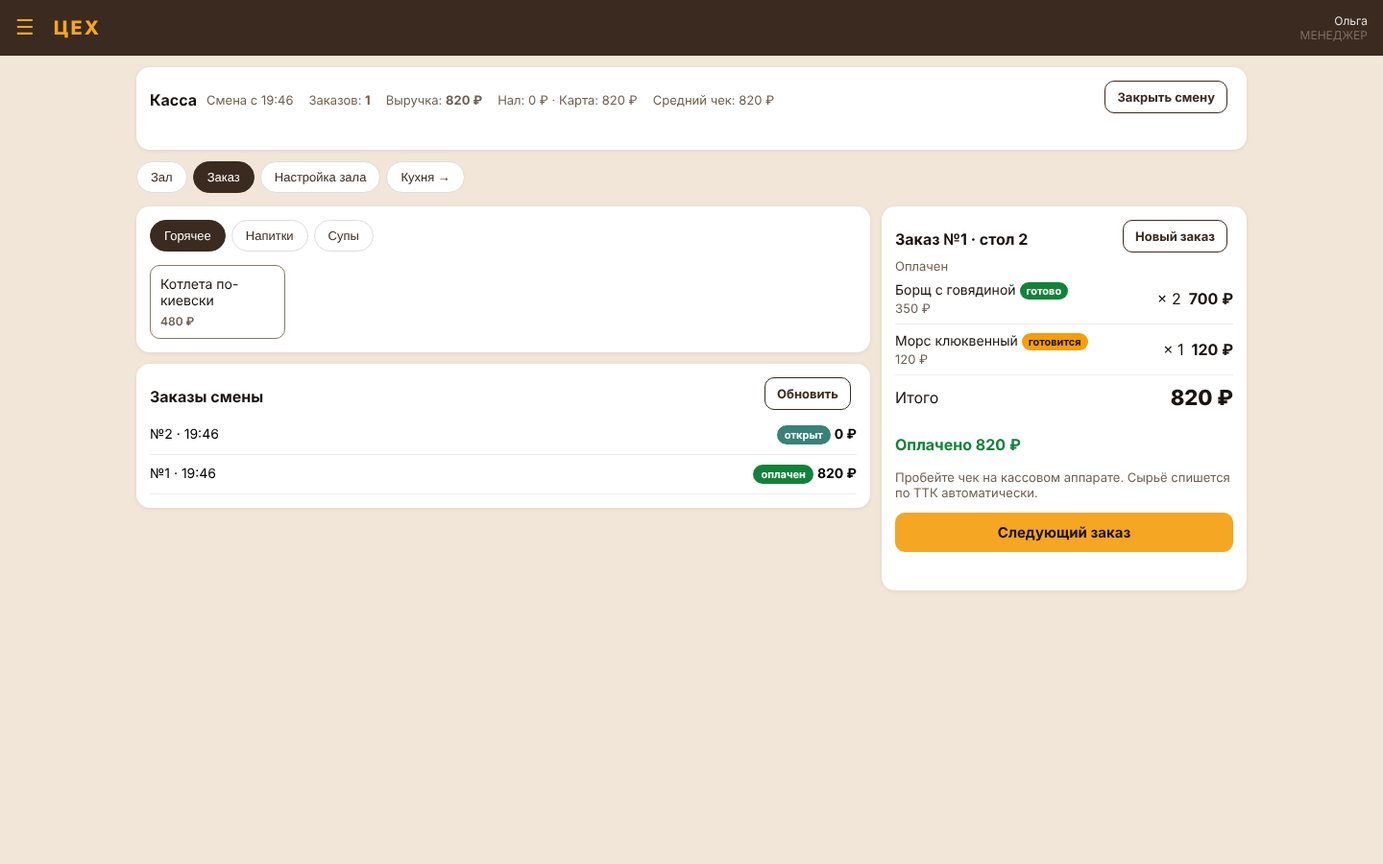
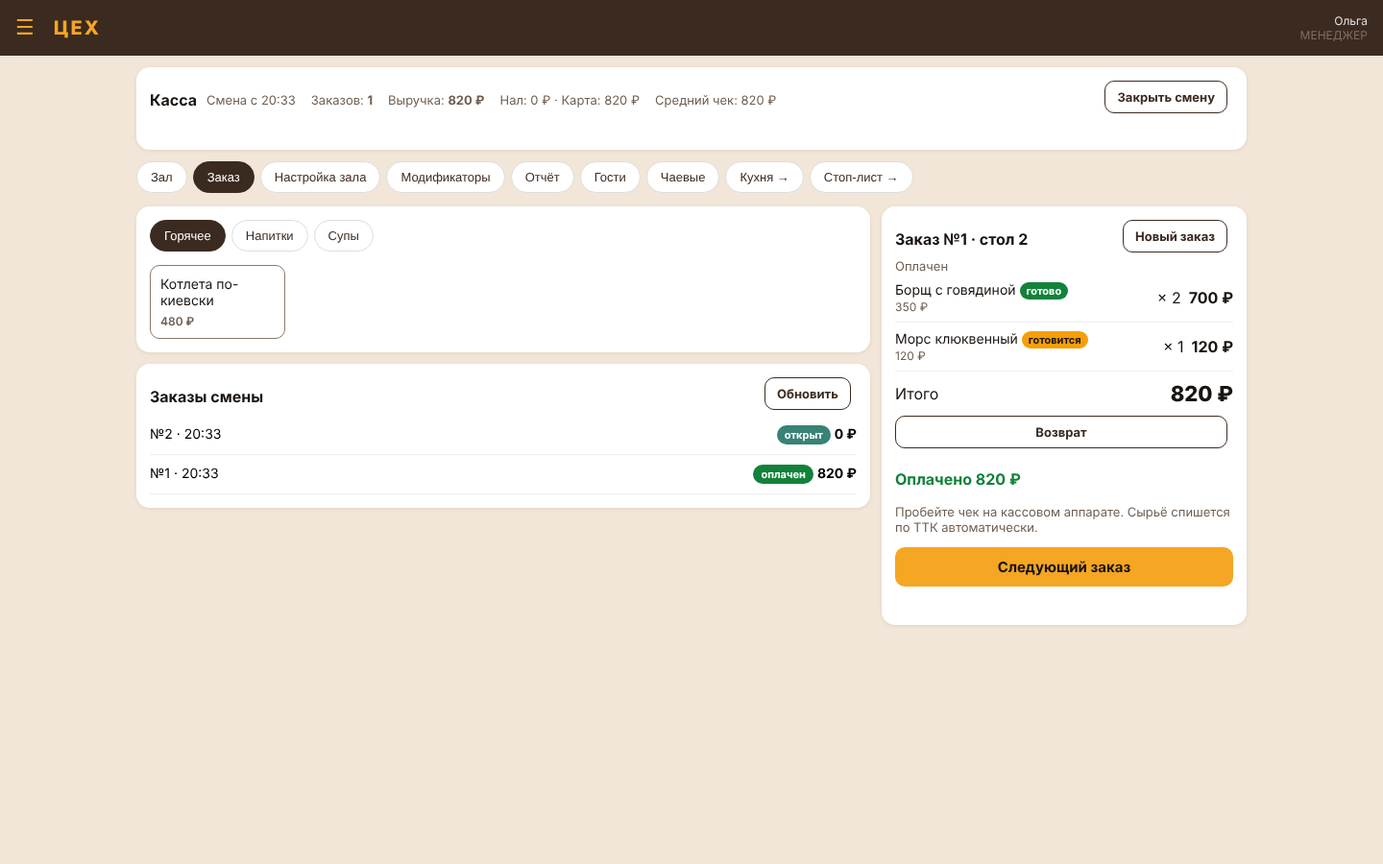
build: M7 чаевые
POS_TIP_LINKS: личная https-ссылка сотрудника на сервис чаевых (свою задаёт сам,
чужие — менеджмент). В карточке заказа — ссылка того, кто ведёт заказ; QR в
заказе на пречеке и после оплаты. «Печать пречека»: позиции, бонусы, к оплате,
пометка «не кассовый чек» и QR для чаевых. Деньги идут через внешний сервис —
ЦЕХ их не принимает и не учитывает. QR рисует quickchart.io, как этикетки
маркировки. Тесты: точные селекторы кнопок «Пречек» / «Печать пречека».

Claude-Session: https://claude.ai/code/session_01TtYS2sTh7C8pE1SCJzegNd

diff --git a/gas/Index.html b/gas/Index.html
@@ -149,6 +149,11 @@
   .pos-seg{display:grid;grid-template-columns:repeat(auto-fit,minmax(72px,1fr));gap:6px;margin:10px 0;}
   .pos-kpi-row{display:flex;flex-wrap:wrap;gap:6px 16px;margin-top:10px;}
   .pos-refund{border:1px solid var(--pos-border-input);border-radius:12px;padding:12px;margin-top:10px;}
+  .pos-tip{display:flex;gap:12px;align-items:center;border:1px dashed var(--pos-border-input);border-radius:12px;padding:10px;margin-top:10px;}
+  .pos-tip img{width:120px;height:120px;flex:none;background:#fff;}
+  .tip-row{display:grid;grid-template-columns:minmax(0,1fr) minmax(0,2fr) auto;gap:8px;align-items:center;padding:8px 0;border-bottom:1px solid #eee;}
+  .tip-row input{margin:0;} .tip-row .btn{width:auto;margin:0;}
+  @media(max-width:600px){ .tip-row{grid-template-columns:1fr;} }
   .pos-guest-chip{display:flex;justify-content:space-between;align-items:center;gap:8px;background:var(--beige);border-radius:10px;padding:8px 10px;margin:8px 0;font-size:14px;}
   .pos-guest-chip .btn{width:auto;margin:0;}
   .pos-consent{display:flex;gap:8px;align-items:flex-start;font-size:13px;color:var(--pos-text-muted);margin:6px 0 10px;}
@@ -1453,6 +1458,7 @@
       <button data-pos-tab="mods" data-module-gate="pos_admin" onclick="posShowTab('mods')">Модификаторы</button>
       <button data-pos-tab="report" data-module-gate="pos_admin" onclick="posShowTab('report')">Отчёт</button>
       <button data-pos-tab="guests" data-module-gate="pos_admin" onclick="posShowTab('guests')">Гости</button>
+      <button data-pos-tab="tips" onclick="posShowTab('tips')">Чаевые</button>
       <button data-module-gate="pos_kitchen" onclick="navTo('kitchen')">Кухня →</button>
       <button data-module-gate="pos_stop" onclick="navTo('stoplist')">Стоп-лист →</button>
     </div>
@@ -1465,6 +1471,16 @@
       <div class="pos-legend pos-muted"><span>свободен</span><span class="lg-busy">занят</span><span class="lg-pre">пречек — ждёт оплаты</span></div>
       <div id="posTables" class="pos-table-grid" aria-live="polite"></div>
       <div id="posFloorErr" class="err" role="alert"></div>
+    </div>
+
+    <!-- M7: ссылки на сервис чаевых. ЦЕХ деньги не принимает — показывает QR на страницу сервиса. -->
+    <div id="posTipsPanel" class="hidden">
+      <div class="card">
+        <h2>Чаевые</h2>
+        <p class="muted">Вставьте личную ссылку сотрудника из сервиса чаевых (например, CloudTips или Нетмонет). Гость увидит QR-код этой ссылки на пречеке и после оплаты. Деньги идут через сервис — касса ЦЕХ их не принимает и не учитывает в выручке.</p>
+        <div id="tipList"></div>
+        <div id="tipErr" class="err" role="alert"></div>
+      </div>
     </div>
 
     <!-- M6: гости и бонусная программа. -->
@@ -1639,6 +1655,7 @@
           <button id="posPayBtn" class="btn pos-pay" onclick="posPay()">Оплатить</button>
           <button class="btn secondary" onclick="posCancelOrder()" data-module-gate="pos_admin">Отменить заказ</button>
         </div>
+        <div id="posTipBlock"></div>
         <div id="posRefundBlock" class="pos-refund hidden" aria-labelledby="posRefundTitle">
           <h2 id="posRefundTitle" style="margin:0 0 6px;">Возврат</h2>
           <div id="posRefundLines" role="group" aria-label="Позиции для возврата"></div>
@@ -5005,6 +5022,7 @@ function posShowPanels(tab) {
   document.getElementById('posModsPanel').classList.toggle('hidden', tab !== 'mods');
   document.getElementById('posReportPanel').classList.toggle('hidden', tab !== 'report');
   document.getElementById('posGuestsPanel').classList.toggle('hidden', tab !== 'guests');
+  document.getElementById('posTipsPanel').classList.toggle('hidden', tab !== 'tips');
   document.getElementById('posFloorPanel').classList.toggle('hidden', tab !== 'floor');
   document.getElementById('posWork').classList.toggle('hidden', tab !== 'order');
   document.getElementById('posHallPanel').classList.toggle('hidden', tab !== 'hall');
@@ -5024,6 +5042,7 @@ function posShowTab(tab) {
   if (tab === 'mods') posLoadModsAdmin();
   if (tab === 'report') posInitReport();
   if (tab === 'guests') { loyLoad(); guestsLoad(); }
+  if (tab === 'tips') tipsLoad();
 }
 
 // ---------- Модификаторы: выбор при добавлении блюда ----------
@@ -5439,7 +5458,7 @@ function posPickDish(dishId) {
 }
 
 function posApplyOrder(v) {
-  POS.order = v.order; POS.lines = v.lines || []; POS.table = v.table || null; POS.guest = v.guest || null;
+  POS.order = v.order; POS.lines = v.lines || []; POS.table = v.table || null; POS.guest = v.guest || null; POS.tip = v.tip || null;
   if (!POS.order || POS.order.order_id !== POS.bonusOrder) { POS.bonusOrder = POS.order && POS.order.order_id; var b = document.getElementById('posBonus'); if (b) b.value = 0; }
   posToggleRefund(false);
   posSyncOrderRow(v.order);
@@ -5475,7 +5494,12 @@ function posRenderTicket() {
     chip.innerHTML = '<div class="pos-guest-chip"><span>👤 <b>' + posEsc(POS.guest.имя) + '</b> ' + posEsc(POS.guest.телефон) + ' · бонусов: <b>' + posEsc(POS.guest.бонусы) + '</b></span>' +
       (live ? '<button class="btn small secondary" onclick="posDetachGuest()" aria-label="Убрать гостя из заказа">Убрать</button>' : '') + '</div>';
   } else chip.innerHTML = '';
+  // Чаевые: QR на пречеке и после оплаты.
+  var showTip = POS.tip && o && (o.статус === 'пречек' || o.статус === 'оплачен');
+  document.getElementById('posTipBlock').innerHTML = showTip ? '<div class="pos-tip"><img alt="QR-код для чаевых. Сотрудник: ' + posEsc(POS.tip.имя) + '" src="' + posTipQr(POS.tip.ссылка, 240) + '">' +
+    '<div><b>Чаевые: ' + posEsc(POS.tip.имя) + '</b><div class="pos-mods">Наведите камеру телефона на код. Оплата — через ' + posEsc(POS.tip.сервис) + '.</div></div></div>' : '';
   var acts = [];
+  if (o && POS.lines.length && (o.статус === 'открыт' || o.статус === 'пречек')) acts.push('<button class="btn small secondary" onclick="posPrintPrecheck()">Печать пречека</button>');
   if (live && !POS.guest) acts.push('<button class="btn small secondary" onclick="posToggleGuest(true)">Гость</button>');
   if (o && o.статус === 'открыт' && POS.lines.some(function (l) { return l.статус === 'новая'; }) && (POS.table || posIsWaiter())) acts.push('<button class="btn small" onclick="posSendToKitchen()">На кухню</button>');
   if (o && o.статус === 'открыт' && POS.lines.length && POS.table) acts.push('<button class="btn small secondary" onclick="posPrecheck()">Пречек</button>');
@@ -5608,6 +5632,48 @@ function posPay() {
       call('POS_GET_SHIFT', {}, posApplyShift);
     },
     function (e) { btn.disabled = false; btn.textContent = 'Повторить оплату'; posErr(e); });
+}
+
+// ---------- Чаевые (M7) ----------
+/** QR рисует тот же внешний сервис, что и этикетки маркировки (renderMarkLabel). */
+function posTipQr(url, size) { return 'https://quickchart.io/qr?size=' + (size || 200) + '&margin=1&text=' + encodeURIComponent(url); }
+function tipsLoad() {
+  document.getElementById('tipErr').textContent = '';
+  call('POS_GET_TIP_LINKS', {}, function (rows) {
+    document.getElementById('tipList').innerHTML = rows.map(function (r) {
+      return '<div class="tip-row"><span><b>' + posEsc(r.имя) + '</b> <span class="pos-muted">' + posEsc(r.роль) + '</span>' + (r.ссылка ? '<span class="pos-mods">' + posEsc(r.сервис) + '</span>' : '<span class="pos-mods">ссылки нет</span>') + '</span>' +
+        '<input id="tip-' + posEsc(r.user_id) + '" type="url" inputmode="url" placeholder="https://…" value="' + posEsc(r.ссылка) + '" aria-label="Ссылка на чаевые: ' + posEsc(r.имя) + '">' +
+        '<button class="btn small secondary" onclick="tipSave(\'' + posEsc(r.user_id) + '\')">Сохранить</button></div>';
+    }).join('') || '<p class="muted">Сотрудников не найдено.</p>';
+  }, function (e) { document.getElementById('tipErr').textContent = e; });
+}
+function tipSave(userId) {
+  var v = document.getElementById('tip-' + userId).value.trim();
+  call('POS_SAVE_TIP_LINK', { userId: userId, ссылка: v }, function () { tipsLoad(); document.getElementById('tipErr').innerHTML = '<span class="pos-ok">Сохранено.</span>'; },
+    function (e) { document.getElementById('tipErr').textContent = e; });
+}
+/** Пречек для гостя: позиции, итог, бонусы, QR для чаевых. Печать через окно браузера (принтер чеков — по умолчанию). */
+function posPrintPrecheck() {
+  var o = POS.order; if (!o) return;
+  var rows = POS.lines.map(function (l) {
+    var mt = posModsText(l.модификаторы_json);
+    return '<tr><td>' + posEsc(l.название_снимок) + (mt ? '<div class="m">' + posEsc(mt) + '</div>' : '') + '</td><td class="r">' + posEsc(l.qty) + ' × ' + posMoney(l.цена) + '</td><td class="r">' + posMoney(l.сумма) + '</td></tr>';
+  }).join('');
+  var bonus = POS.guest ? posBonusValue() : 0;
+  var html = '<!doctype html><html><head><meta charset="utf-8"><title>Пречек №' + posEsc(o.номер) + '</title><style>' +
+    'body{font-family:Arial,sans-serif;width:72mm;margin:0 auto;padding:4mm;color:#000;font-size:12px}h1{font-size:15px;text-align:center;margin:0 0 4px}' +
+    '.c{text-align:center}table{width:100%;border-collapse:collapse;margin:6px 0}td{padding:3px 0;vertical-align:top;border-bottom:1px dashed #999}.r{text-align:right;white-space:nowrap}' +
+    '.m{font-size:10px;color:#444}.t{font-size:16px;font-weight:bold;display:flex;justify-content:space-between;margin-top:6px}img{width:40mm;height:40mm}@media print{button{display:none}}</style></head><body>' +
+    '<h1>ПРЕЧЕК</h1><div class="c">Заказ №' + posEsc(o.номер) + (POS.table ? ' · стол ' + posEsc(POS.table.название) : '') + '<br>' + posEsc(new Date().toLocaleString('ru-RU')) + '</div>' +
+    '<table>' + rows + '</table>' +
+    (bonus ? '<div class="t" style="font-size:12px"><span>Бонусами</span><span>−' + posMoney(bonus) + '</span></div>' : '') +
+    '<div class="t"><span>К оплате</span><span>' + posMoney(posPayTotal()) + '</span></div>' +
+    '<p class="c">Это не кассовый чек.</p>' +
+    (POS.tip ? '<div class="c"><img alt="" src="' + posTipQr(POS.tip.ссылка, 300) + '"><div>Оставить чаевые: ' + posEsc(POS.tip.имя) + '</div></div>' : '') +
+    '<div class="c"><button onclick="window.print()">Печать</button></div><script>window.onload=function(){setTimeout(function(){window.print();},400);};<\/script></body></html>';
+  var w = window.open('', '_blank');
+  if (!w) { posErr('Браузер заблокировал окно печати — разрешите всплывающие окна для ЦЕХ.'); return; }
+  w.document.open(); w.document.write(html); w.document.close();
 }
 
 // ---------- Гость в заказе (M6) ----------

diff --git a/replica/tests/shots_m7.js b/replica/tests/shots_m7.js
@@ -1,0 +1,89 @@
+// Этап M7 в браузере: ссылка на чаевые, QR в заказе и на пречеке. Скриншоты M7-*.png.
+// Картинку QR (quickchart.io) тест подменяет заглушкой и проверяет, какая ссылка в неё зашита.
+// Запуск: node replica/tests/shots_m7.js
+const path = require('path');
+const { chromium } = require(path.join(require('child_process').execSync('npm root -g').toString().trim(), 'playwright'));
+const { ctx: G } = require('./harness.js');
+const GAS = path.join(__dirname, '../../gas'), OUT = path.join(__dirname, '../clone-screens');
+G.PropertiesService.getScriptProperties().setProperty('SPREADSHEET_ID', 'SS');
+G.initializeDatabase();
+G.insertRow_('ORGANIZATIONS', { organization_id: 'ORG-1', название: 'Кафе', статус: 'активна' });
+G.insertRow_('LOCATIONS', { location_id: 'LOC-1', organization_id: 'ORG-1', название: 'Точка', статус: 'активна' });
+function mk(id, name, role) { G.insertRow_('USERS', { user_id: id, organization_id: 'ORG-1', location_ids: 'LOC-1', имя: name, роль: role, статус: 'активен', pin_hash: G.hashPin_('482915', 's' + id), pin_salt: 's' + id, failed_attempts: 0, lockout_count: 0 }); }
+mk('USR-W', 'Игорь', 'ОФИЦИАНТ'); mk('USR-K', 'Анна', 'КАССИР'); mk('USR-M', 'Ольга', 'МЕНЕДЖЕР');
+G.insertRow_('CATEGORIES', { category_id: 'CAT-1', название: 'Кухня', тип: 'блюдо' });
+[['DISH-1', 'Борщ', 350], ['DISH-2', 'Морс', 150]].forEach(d => G.insertRow_('DISHES', { dish_id: d[0], organization_id: 'ORG-1', название: d[1], категория_id: 'CAT-1', цена_продажи: d[2], статус: 'активно' }));
+function token(u) { let t = G.processOperation('LOGIN', { userId: u, pin: '482915' }).data.token; const s = G.processOperation('SELECT_LOCATION', { locationId: 'LOC-1' }, t); return (s.ok && s.data.token) || t; }
+const tok = { W: token('USR-W'), K: token('USR-K'), M: token('USR-M') };
+const hall = G.processOperation('POS_SAVE_HALL', { название: 'Зал' }, tok.M).data;
+G.processOperation('POS_SAVE_TABLE', { hallId: hall.hall_id, название: '3' }, tok.M);
+G.processOperation('POS_OPEN_SHIFT', { cashStart: 0 }, tok.K);
+const TIP = 'https://pay.cloudtips.ru/p/igor-123';
+const PLACEHOLDER = '<svg xmlns="http://www.w3.org/2000/svg" width="200" height="200"><rect width="200" height="200" fill="#fff"/>' +
+  [0, 1, 2].map(i => { const x = [10, 130, 10][i], y = [10, 10, 130][i]; return '<rect x="' + x + '" y="' + y + '" width="60" height="60" fill="#000"/><rect x="' + (x + 10) + '" y="' + (y + 10) + '" width="40" height="40" fill="#fff"/><rect x="' + (x + 20) + '" y="' + (y + 20) + '" width="20" height="20" fill="#000"/>'; }).join('') +
+  '<text x="100" y="110" font-size="14" text-anchor="middle" font-family="Arial">QR</text></svg>';
+
+(async () => {
+  const browser = await chromium.launch({ executablePath: '/opt/pw-browsers/chromium-1194/chrome-linux/chrome' }).catch(() => chromium.launch());
+  const errors = [], qrRequests = [];
+  const ctx = await browser.newContext({ viewport: { width: 390, height: 844 } });
+  await ctx.route('**/quickchart.io/**', r => { qrRequests.push(decodeURIComponent(new URL(r.request().url()).searchParams.get('text') || '')); r.fulfill({ status: 200, contentType: 'image/svg+xml', body: PLACEHOLDER }); });
+  const p = await ctx.newPage();
+  p.on('pageerror', e => errors.push(e.message));
+  await p.exposeFunction('__gasApi', (a, d, t) => JSON.parse(JSON.stringify(G.processOperation(a, d, t))));
+  await p.addInitScript(t => {
+    localStorage.setItem('tsekh_token', t);
+    function r() { let ok = () => {}, fail = () => {}; const x = new Proxy({}, { get(_, k) {
+      if (k === 'withSuccessHandler') return f => { ok = f; return x; };
+      if (k === 'withFailureHandler') return f => { fail = f; return x; };
+      if (k === 'withUserObject') return () => x;
+      if (k === 'api') return (a, d, tk) => { window.__gasApi(a, d, tk).then(ok, fail); };
+      return () => {}; } }); return x; }
+    window.google = { script: { get run() { return r(); } } };
+  }, tok.W);
+  await p.goto('file://' + GAS + '/Index.html'); await p.waitForTimeout(700);
+  const wait = ms => new Promise(r => setTimeout(r, ms));
+  await p.evaluate(() => navTo('pos')); await wait(500);
+
+  // Официант задаёт свою ссылку.
+  await p.click('#posTabs >> text=Чаевые'); await wait(400);
+  const rowsVisible = await p.$$eval('#tipList .tip-row', r => r.length);
+  await p.fill('#tip-USR-W', 'http://bad'); await p.click('#tipList >> text=Сохранить'); await wait(300);
+  const badErr = await p.textContent('#tipErr');
+  await p.fill('#tip-USR-W', TIP); await p.click('#tipList >> text=Сохранить'); await wait(300);
+  await p.screenshot({ path: OUT + '/M7-tip-settings-390.png' });
+
+  // Стол 3: заказ, пречек, QR в заказе.
+  await p.click('#posTabs >> text=Зал'); await wait(400);
+  await p.click('.pos-table >> text=3'); await wait(400);
+  await p.click('.pos-dish:has-text("Борщ")'); await wait(250); await p.click('.pos-dish:has-text("Морс")'); await wait(250);
+  await p.click('#posOrderActions button:text-is("Пречек")'); await wait(500);
+  const tipShown = await p.isVisible('.pos-tip img');
+  await p.locator('#posTipBlock').scrollIntoViewIfNeeded();
+  await p.screenshot({ path: OUT + '/M7-precheck-qr-390.png' });
+
+  // Печать пречека — отдельное окно.
+  const [popup] = await Promise.all([ctx.waitForEvent('page'), p.click('#posOrderActions button:text-is("Печать пречека")')]);
+  await popup.waitForTimeout(300);
+  const precheckHtml = await popup.content();
+  const precheckText = await popup.textContent('body');
+  await popup.close();
+  // Снимок отрисовываем на обычной странице: у окна, созданного document.write, скриншот ждёт шрифты бесконечно.
+  const view = await ctx.newPage();
+  await view.setViewportSize({ width: 320, height: 640 });
+  await view.setContent(precheckHtml.replace(/<script>[\s\S]*?<\/script>/g, ''));
+  await view.waitForTimeout(300);
+  await view.screenshot({ path: OUT + '/M7-precheck-print.png', fullPage: true });
+  await browser.close();
+
+  const result = {
+    'официант видит только себя': rowsVisible === 1,
+    'http-ссылка отклонена': /https:\/\//.test(badErr),
+    'QR показан на пречеке': tipShown,
+    'в QR зашита ссылка официанта': qrRequests.length > 0 && qrRequests.every(t => t === TIP),
+    'на пречеке позиции, итог и «не кассовый чек»': /Борщ/.test(precheckText) && /500/.test(precheckText) && /не кассовый чек/.test(precheckText) && /Оставить чаевые: Игорь/.test(precheckText),
+    'ошибок в браузере нет': errors.length === 0
+  };
+  console.log(result, errors);
+  process.exit(Object.values(result).every(Boolean) ? 0 : 1);
+})();

diff --git a/replica/tests/pos_tips_test.js b/replica/tests/pos_tips_test.js
@@ -1,0 +1,64 @@
+// Этап M7: чаевые. Запуск: node replica/tests/pos_tips_test.js
+const assert = require('assert');
+const { ctx: G } = require('./harness.js');
+let failures = 0;
+function step(name, fn) {
+  try { const r = fn(); console.log('OK   ', name); return r; }
+  catch (e) { failures++; console.log('FAIL ', name, '—', e && e.message); }
+}
+function api(a, d, t) { const r = G.processOperation(a, d || {}, t); if (!r.ok) throw new Error(a + ': ' + r.error); return r.data; }
+function apiErr(a, d, t) { const r = G.processOperation(a, d || {}, t); assert(!r.ok, a + ' должен был вернуть ошибку'); return r.error; }
+
+G.PropertiesService.getScriptProperties().setProperty('SPREADSHEET_ID', 'SS');
+G.initializeDatabase();
+G.insertRow_('ORGANIZATIONS', { organization_id: 'ORG-1', название: 'Кафе', статус: 'активна' });
+G.insertRow_('LOCATIONS', { location_id: 'LOC-1', organization_id: 'ORG-1', название: 'Точка', статус: 'активна' });
+function mk(id, name, role, pin, org) { const s = 's' + id; G.insertRow_('USERS', { user_id: id, organization_id: org || 'ORG-1', location_ids: 'LOC-1', имя: name, роль: role, статус: 'активен', pin_hash: G.hashPin_(pin, s), pin_salt: s, failed_attempts: 0, lockout_count: 0 }); }
+mk('USR-M', 'Ольга', 'МЕНЕДЖЕР', '482915'); mk('USR-W', 'Игорь', 'ОФИЦИАНТ', '615283'); mk('USR-W2', 'Мария', 'ОФИЦИАНТ', '927364'); mk('USR-K', 'Анна', 'КАССИР', '739164');
+mk('USR-X', 'Чужой', 'ОФИЦИАНТ', '351846', 'ORG-2');
+G.insertRow_('DISHES', { dish_id: 'DISH-1', organization_id: 'ORG-1', название: 'Борщ', цена_продажи: 350, статус: 'активно' });
+function login(u, p) { const d = api('LOGIN', { userId: u, pin: p }); return d.requires_location ? (api('SELECT_LOCATION', { locationId: 'LOC-1' }, d.token).token || d.token) : d.token; }
+const tM = login('USR-M', '482915'), tW = login('USR-W', '615283'), tW2 = login('USR-W2', '927364'), tK = login('USR-K', '739164');
+
+step('ссылка проверяется: только https, без пробелов', () => {
+  assert(/https:\/\//.test(apiErr('POS_SAVE_TIP_LINK', { ссылка: 'http://tips.example.ru/igor' }, tW)));
+  assert(/https:\/\//.test(apiErr('POS_SAVE_TIP_LINK', { ссылка: 'https://tips example.ru' }, tW)));
+  assert(/https:\/\//.test(apiErr('POS_SAVE_TIP_LINK', { ссылка: 'javascript:alert(1)' }, tW)));
+});
+step('официант сохраняет свою ссылку; сервис — домен', () => {
+  const r = api('POS_SAVE_TIP_LINK', { ссылка: 'https://pay.cloudtips.ru/p/abc123' }, tW);
+  assert.equal(r.сервис, 'pay.cloudtips.ru');
+});
+step('официант не меняет чужую ссылку и видит только себя', () => {
+  assert(/менеджер/.test(apiErr('POS_SAVE_TIP_LINK', { userId: 'USR-W2', ссылка: 'https://x.ru/y' }, tW)));
+  const list = api('POS_GET_TIP_LINKS', {}, tW);
+  assert.deepEqual(list.map(x => x.имя), ['Игорь']);
+});
+step('менеджер видит официантов и кассиров и задаёт ссылку Марии; чужая организация — нельзя', () => {
+  api('POS_SAVE_TIP_LINK', { userId: 'USR-W2', ссылка: 'https://netmonet.co/tip/777' }, tM);
+  const list = api('POS_GET_TIP_LINKS', {}, tM);
+  assert.deepEqual(list.map(x => x.имя).sort(), ['Анна', 'Игорь', 'Мария', 'Ольга'].sort());
+  assert.equal(list.find(x => x.имя === 'Мария').сервис, 'netmonet.co');
+  apiErr('POS_SAVE_TIP_LINK', { userId: 'USR-X', ссылка: 'https://x.ru/y' }, tM);
+});
+step('в заказе — ссылка того, кто ведёт заказ; без ссылки — пусто', () => {
+  api('POS_OPEN_SHIFT', { cashStart: 0 }, tK);
+  const hall = api('POS_SAVE_HALL', { название: 'Зал' }, tM);
+  const t1 = api('POS_SAVE_TABLE', { hallId: hall.hall_id, название: '1' }, tM);
+  let v = api('POS_CREATE_ORDER', { tableId: t1.table_id }, tW);
+  v = api('POS_ADD_LINE', { orderId: v.order.order_id, dishId: 'DISH-1', version: v.order.version }, tW);
+  v = api('POS_PRECHECK', { orderId: v.order.order_id, version: v.order.version }, tW);
+  assert.deepEqual([v.tip.имя, v.tip.ссылка], ['Игорь', 'https://pay.cloudtips.ru/p/abc123']);
+  const k = api('POS_CREATE_ORDER', {}, tK);
+  assert.equal(k.tip, null);
+});
+step('пустая ссылка удаляет QR из заказов', () => {
+  api('POS_SAVE_TIP_LINK', { ссылка: '' }, tW);
+  const o = G.findRows_('POS_ORDERS', x => x.официант_id === 'USR-W')[0];
+  assert.equal(api('POS_GET_ORDER', { orderId: o.order_id }, tW).tip, null);
+});
+step('runPosTests_ — все проверки OK', () => {
+  const bad = G.runPosTests_().filter(t => t.status !== 'OK'); assert.equal(bad.length, 0, JSON.stringify(bad));
+});
+console.log(failures ? '\n' + failures + ' FAILED' : '\nALL PASSED');
+process.exit(failures ? 1 : 0);

diff --git a/replica/tests/shots_m2.js b/replica/tests/shots_m2.js
@@ -72,7 +72,7 @@ const tok = { M: token('USR-M'), W: token('USR-W'), W2: token('USR-W2'), C: toke
   await w.click('#posTabs >> text=Зал'); await wait(500);
   await w.screenshot({ path: OUT + '/M2-waiter-floor-390.png' });
   await w.click('.pos-table >> text=2'); await wait(400);
-  await w.click('#posOrderActions >> text=Пречек'); await wait(400);
+  await w.click('#posOrderActions button:text-is("Пречек")'); await wait(400);
   const waiterHasPay = await w.isVisible('#posPayBtn');
 
   // 5. Менеджер: зал на компьютере, оплата стола 2.

diff --git a/replica/build-log.md b/replica/build-log.md
@@ -14,6 +14,7 @@
 | M4 стоп-лист | 2026-10-06 | готово | авто-стоп: блюдо с утверждённой ТТК, на которое не хватает годного (не просроченного) сырья даже на порцию, — в стоп с причиной «не хватает: X (есть…, нужно…)»; приход — авто-стоп снимается; ручной стоп с причиной (повар, шеф, менеджер, директор), снятие — с автором и временем, строки не удаляются; «заканчивается» (< 5 порций); экран «Стоп-лист», плитки стопа на кассе недоступны с причиной; сервер не даёт добавить блюдо в стопе | блюда без утверждённой ТТК автоматически не проверяются (только вручную); оплаченные, но ещё не списанные продажи (до 15 мин) пересчёт не учитывает; полуфабрикаты считаются по их остатку, без «можно доготовить» |
 | M5 возвраты и отчёты | 2026-10-06 | готово | возврат полный и по позициям (менеджер, причина, способ; безнал — не больше оплаченного этим способом; деньги из текущей смены, повтор с тем же operationId безопасен); сторно-строки SALES (P&L уменьшается); смешанная оплата нал + карта; X-отчёт с продажами/возвратами/нетто; закрытие смены пишет движение денег в «Экономику» (поступление или выплата по каждому способу) до смены статуса; отчёт по сотрудникам и сменам за период; migratePosSchema_ и сверка колонок в runPosTests_ | себестоимость при возврате не сторнируется (решение: блюдо приготовлено — это убыток); сырьё на склад не возвращается; печатного Z-отчёта нет |
 | M6 гости и бонусы | 2026-10-06 | готово | кнопка «Гость» в заказе: поиск по телефону или 4 последним цифрам, новый гость только с отметкой согласия на ПД; карточка гостя в чеке; «Списать бонусами» с кнопкой «Максимум», «К оплате» после скидки; итог оплаты — сколько списано и начислено; вкладка «Гости» (менеджер): правила программы, список, карточка с историей проводок, корректировка с причиной, удаление данных по запросу (обезличивание) | дни рождения хранятся, но поздравительных бонусов нет; SMS/рассылок нет; бонусы не сгорают |
+| M7 чаевые | 2026-10-06 | готово | вкладка «Чаевые»: официант задаёт свою ссылку, менеджер — любую (только https, без пробелов); QR сотрудника, который ведёт заказ, — в заказе на пречеке и после оплаты; «Печать пречека» (позиции, бонусы, к оплате, «не кассовый чек», QR) через окно печати браузера | QR рисует внешний сервис quickchart.io (как этикетки маркировки) — без интернета QR не покажется, а ссылка уходит этому сервису; сумм чаевых ЦЕХ не видит и не учитывает |
 
 ## Проверки (локальный стенд `replica/tests/`, все gas/*.gs в Node с имитацией Google Таблиц)
 - `node replica/tests/pos_floor_test.js` — 21 проверка M2: зал и столы, права официанта (чужой стол, оплата, смена, выручка),
@@ -34,6 +35,8 @@
   с пересчётом бонусов без потерь на округлении, баланс = сумма проводок, порядок истории, отмена начисления не ниже нуля,
   выключенная программа, обезличивание.
 - `node replica/tests/shots_m6.js` — новый гость с согласием, накопление и списание бонусов, вкладка «Гости»; скриншоты M6-*.png.
+- `node replica/tests/pos_tips_test.js` — 7 проверок M7: проверка ссылки, своя/чужая ссылка, список у менеджера, ссылка в заказе, удаление.
+- `node replica/tests/shots_m7.js` — ссылка официанта, QR на пречеке (с подменой картинки и проверкой зашитой ссылки), печатный пречек; скриншоты M7-*.png.
 - `node replica/tests/shots_m2.js` — сценарий в браузере (менеджер → официант на телефоне → повар → оплата) + скриншоты M2-*.png.
 - `node replica/tests/pos_test.js` — 25 проверок: права ролей, смена, меню, заказ, версии заказа, оплата и сдача,
   повтор оплаты с тем же operationId, продажа в SALES, закрытие смены, фоновое списание без ТТК → одна задача.
